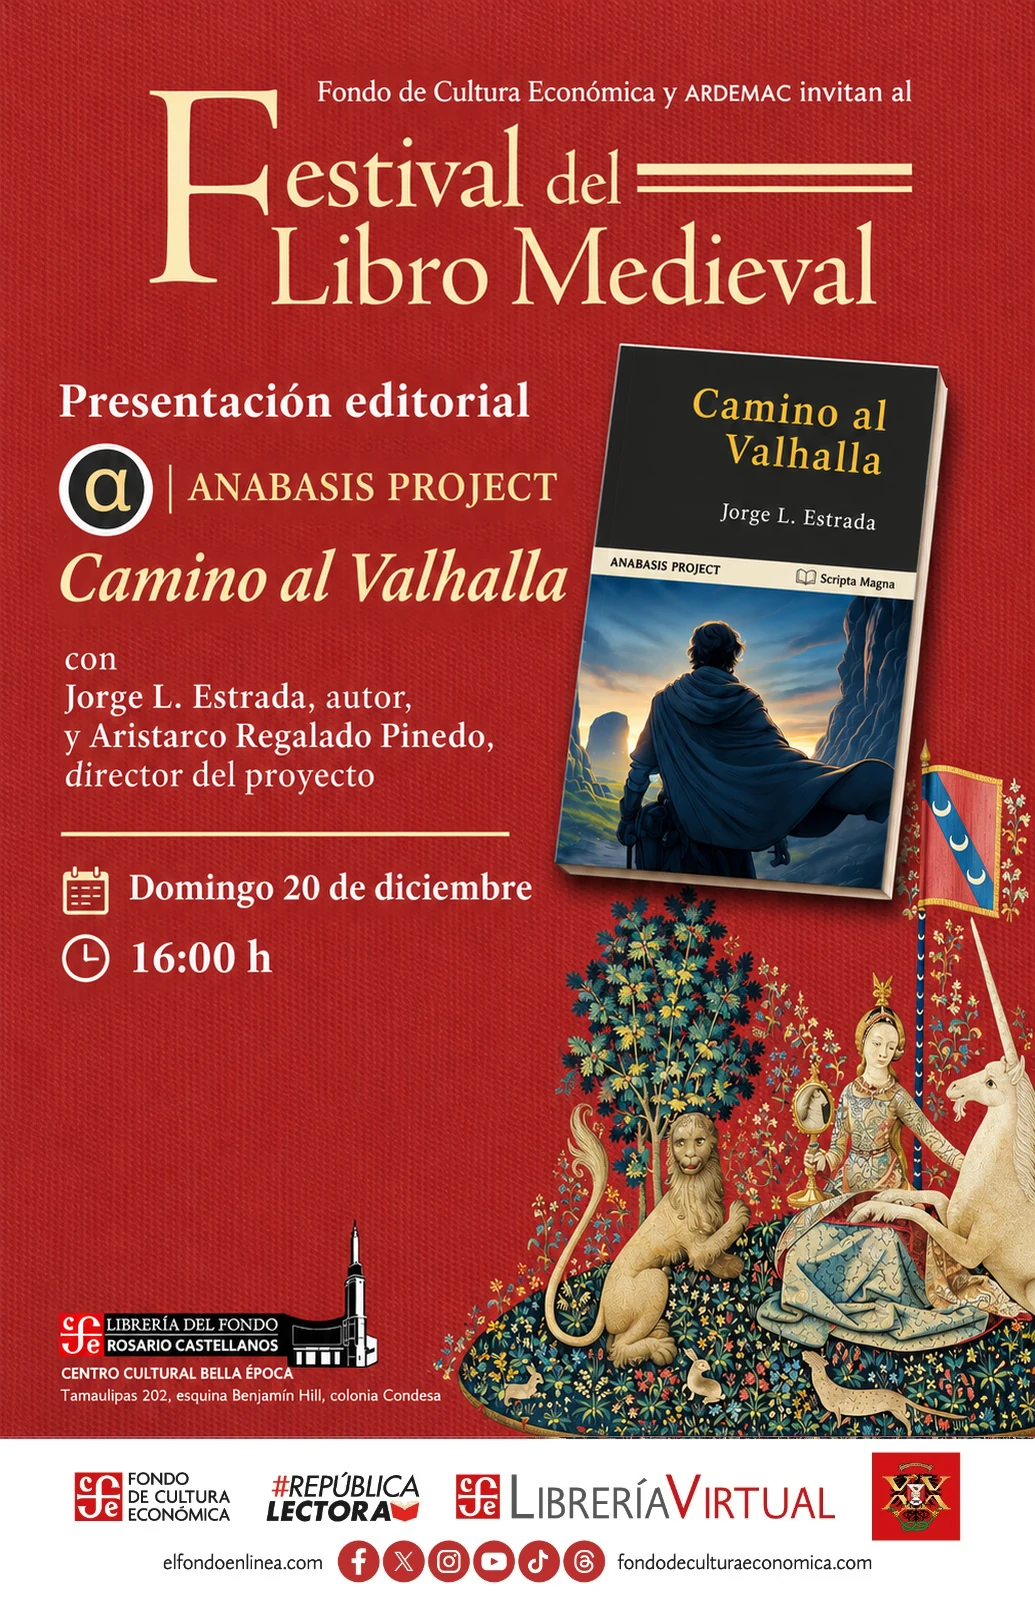
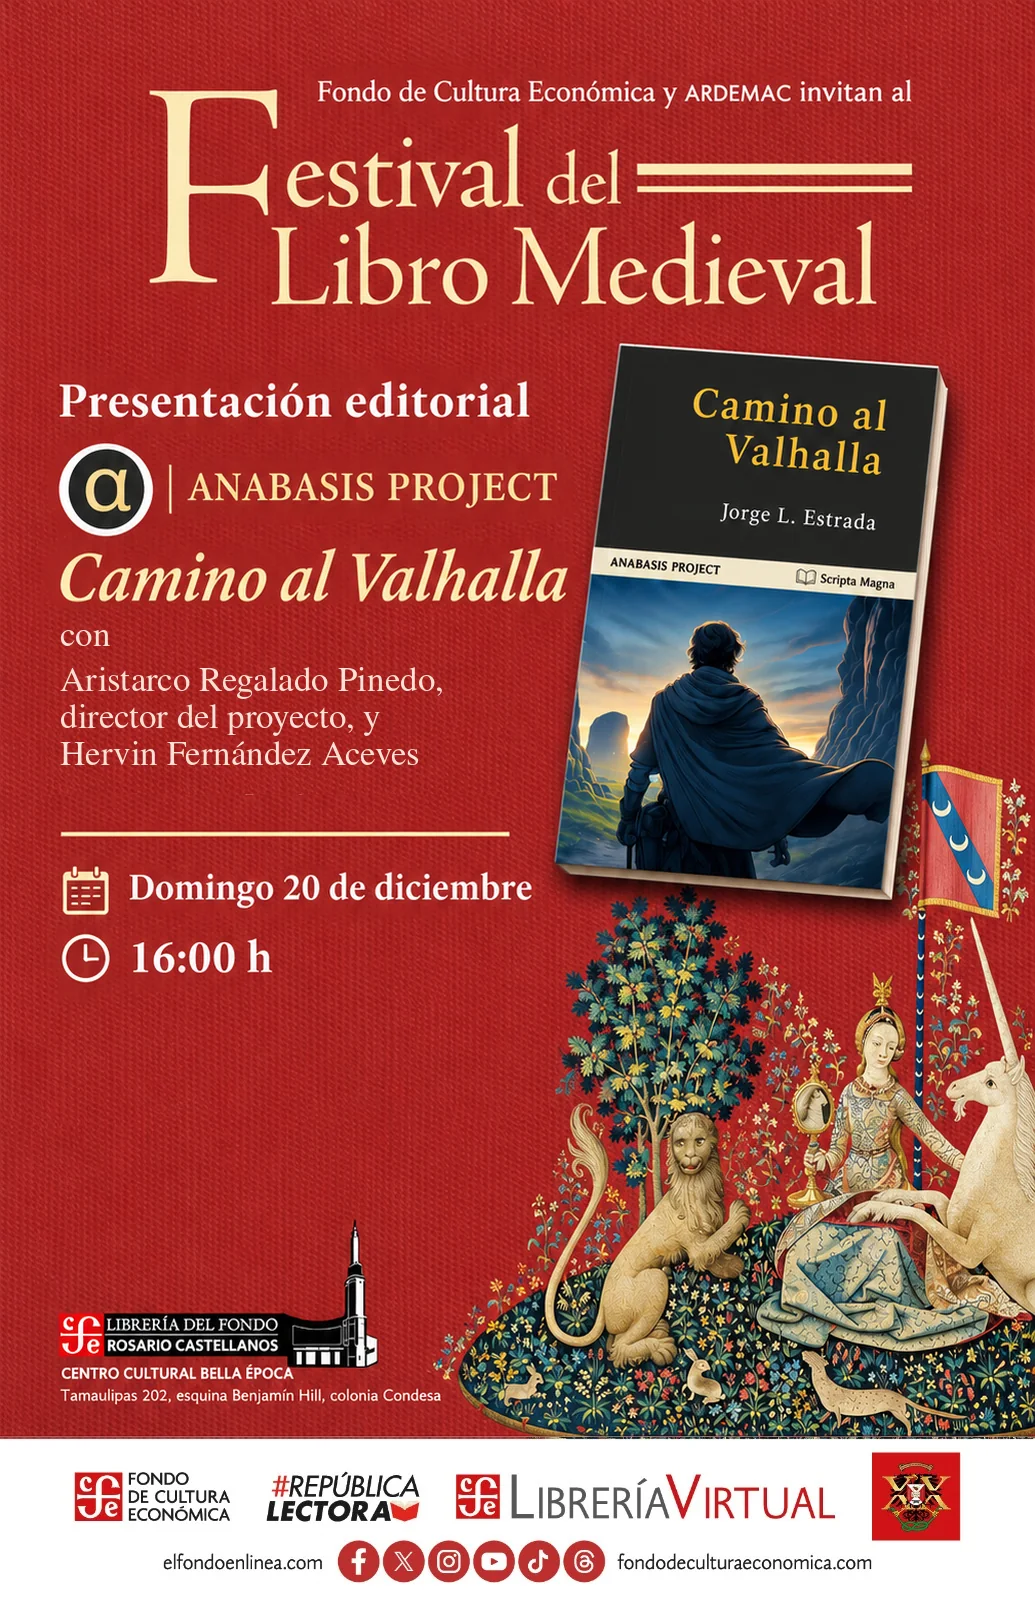
Update Anabasis presenters and final poster; harmonise festival event wording

Changed region(s): [[0.0618, 0.375, 0.4638, 0.5]]

diff --git a/landing/lib/data/events.ts b/landing/lib/data/events.ts
@@ -239,7 +239,7 @@ export const EVENTS: EventSource[] = [
         category: "Presentación de libro",
         format: "Presencial",
         institution: "Fondo de Cultura Económica / ARDEMAC · Librería Rosario Castellanos",
-        description: "Presentación de Vernacular Documents of Medieval Sardinia, de Alex Metcalfe, Hervin Fernández Aceves y Maurizio Virdis (Brill). Comentan Aristarco Regalado Pinedo y Adrián Rodríguez Avila. La actividad forma parte del Festival del Libro Medieval 2026.",
+        description: "Presentación de Vernacular Documents of Medieval Sardinia, de Alex Metcalfe, Hervin Fernández Aceves y Maurizio Virdis (Brill). Comentan Aristarco Regalado Pinedo y Adrián Rodríguez Avila. Actividad del Festival del Libro Medieval 2026.",
         footerNote: "Sábado 19 de diciembre de 2026 · 16:00 h · Librería Rosario Castellanos, Ciudad de México",
       },
       en: {
@@ -295,7 +295,7 @@ export const EVENTS: EventSource[] = [
         category: "Presentación editorial",
         format: "Presencial",
         institution: "Anabasis Project · Fondo de Cultura Económica / ARDEMAC",
-        description: "Presentación de Camino al Valhalla, de Jorge L. Estrada, en el marco de Anabasis Project. Participan Jorge L. Estrada, autor, y Aristarco Regalado Pinedo, director del proyecto. Modera Hervin Fernández Aceves. Actividad del Festival del Libro Medieval 2026.",
+        description: "Presentación de Camino al Valhalla, de Jorge L. Estrada, una publicación de Anabasis Project. Presentan Aristarco Regalado Pinedo, director del proyecto, y Hervin Fernández Aceves. Actividad del Festival del Libro Medieval 2026.",
         footerNote: "Domingo 20 de diciembre de 2026 · 16:00 h · Librería Rosario Castellanos, Ciudad de México",
       },
       en: {
@@ -303,7 +303,7 @@ export const EVENTS: EventSource[] = [
         category: "Book presentation",
         format: "In person",
         institution: "Anabasis Project · Fondo de Cultura Económica / ARDEMAC",
-        description: "Presentation of Camino al Valhalla by Jorge L. Estrada, published under Anabasis Project. Featuring the author and Aristarco Regalado Pinedo, the project's director. Chaired by Hervin Fernández Aceves. Part of the 2026 Medieval Book Festival.",
+        description: "Presentation of Camino al Valhalla by Jorge L. Estrada, published by Anabasis Project. Presented by Aristarco Regalado Pinedo, the project director, and Hervin Fernández Aceves. Part of the 2026 Medieval Book Festival.",
         footerNote: "Sunday 20 December 2026 · 16:00 · Librería Rosario Castellanos, Mexico City",
       },
     },
